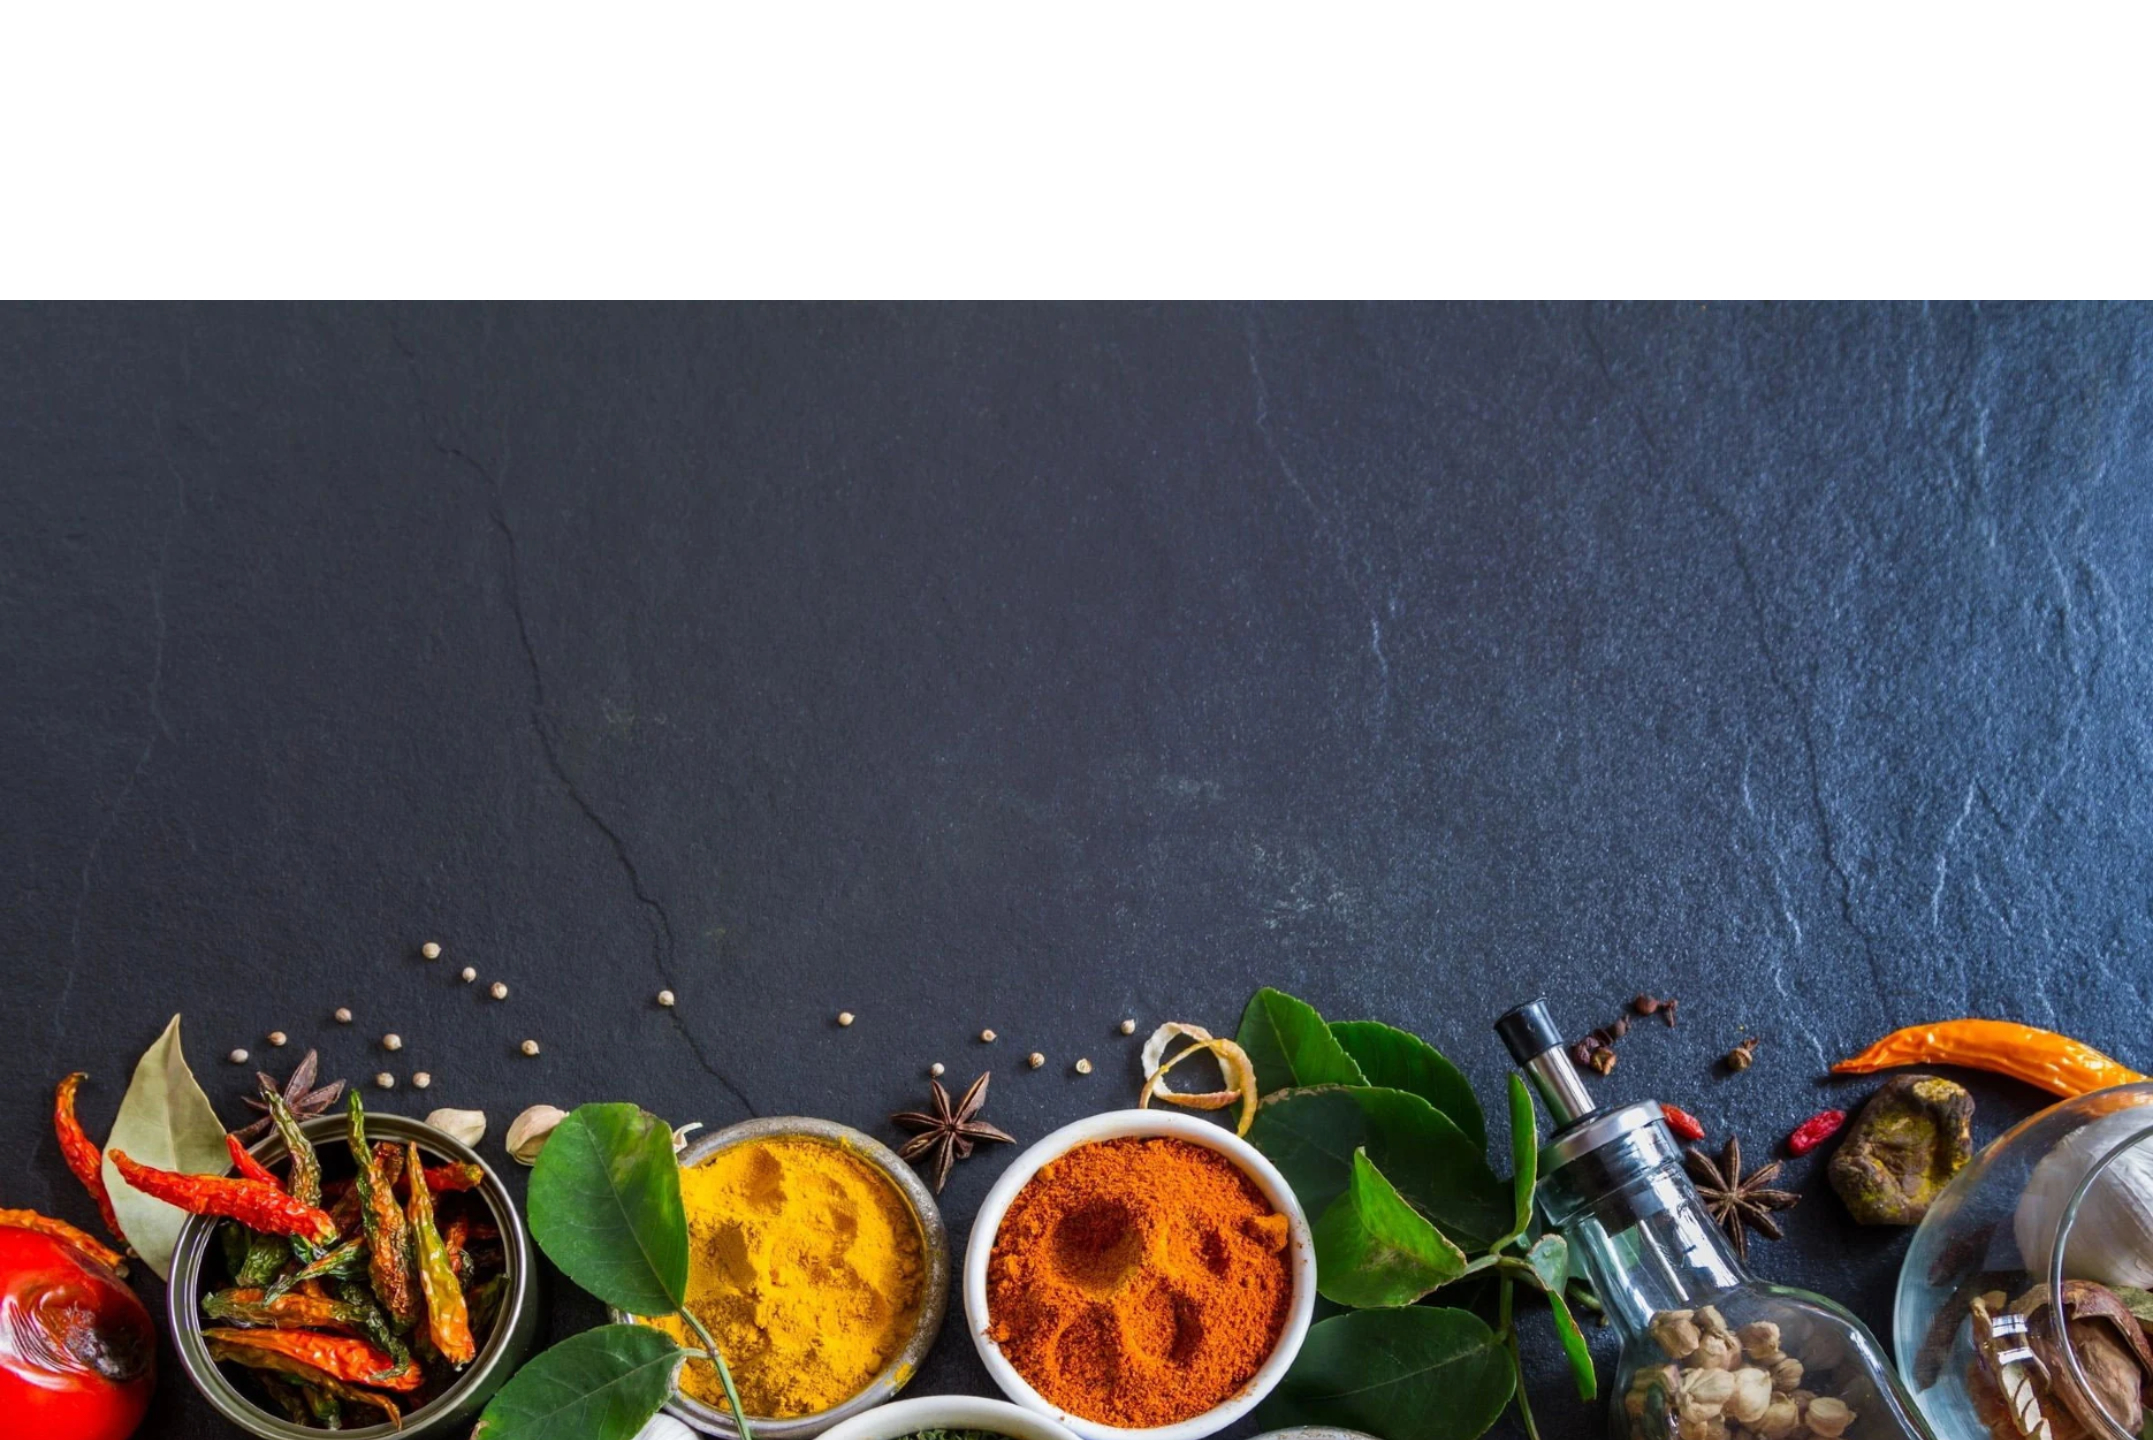
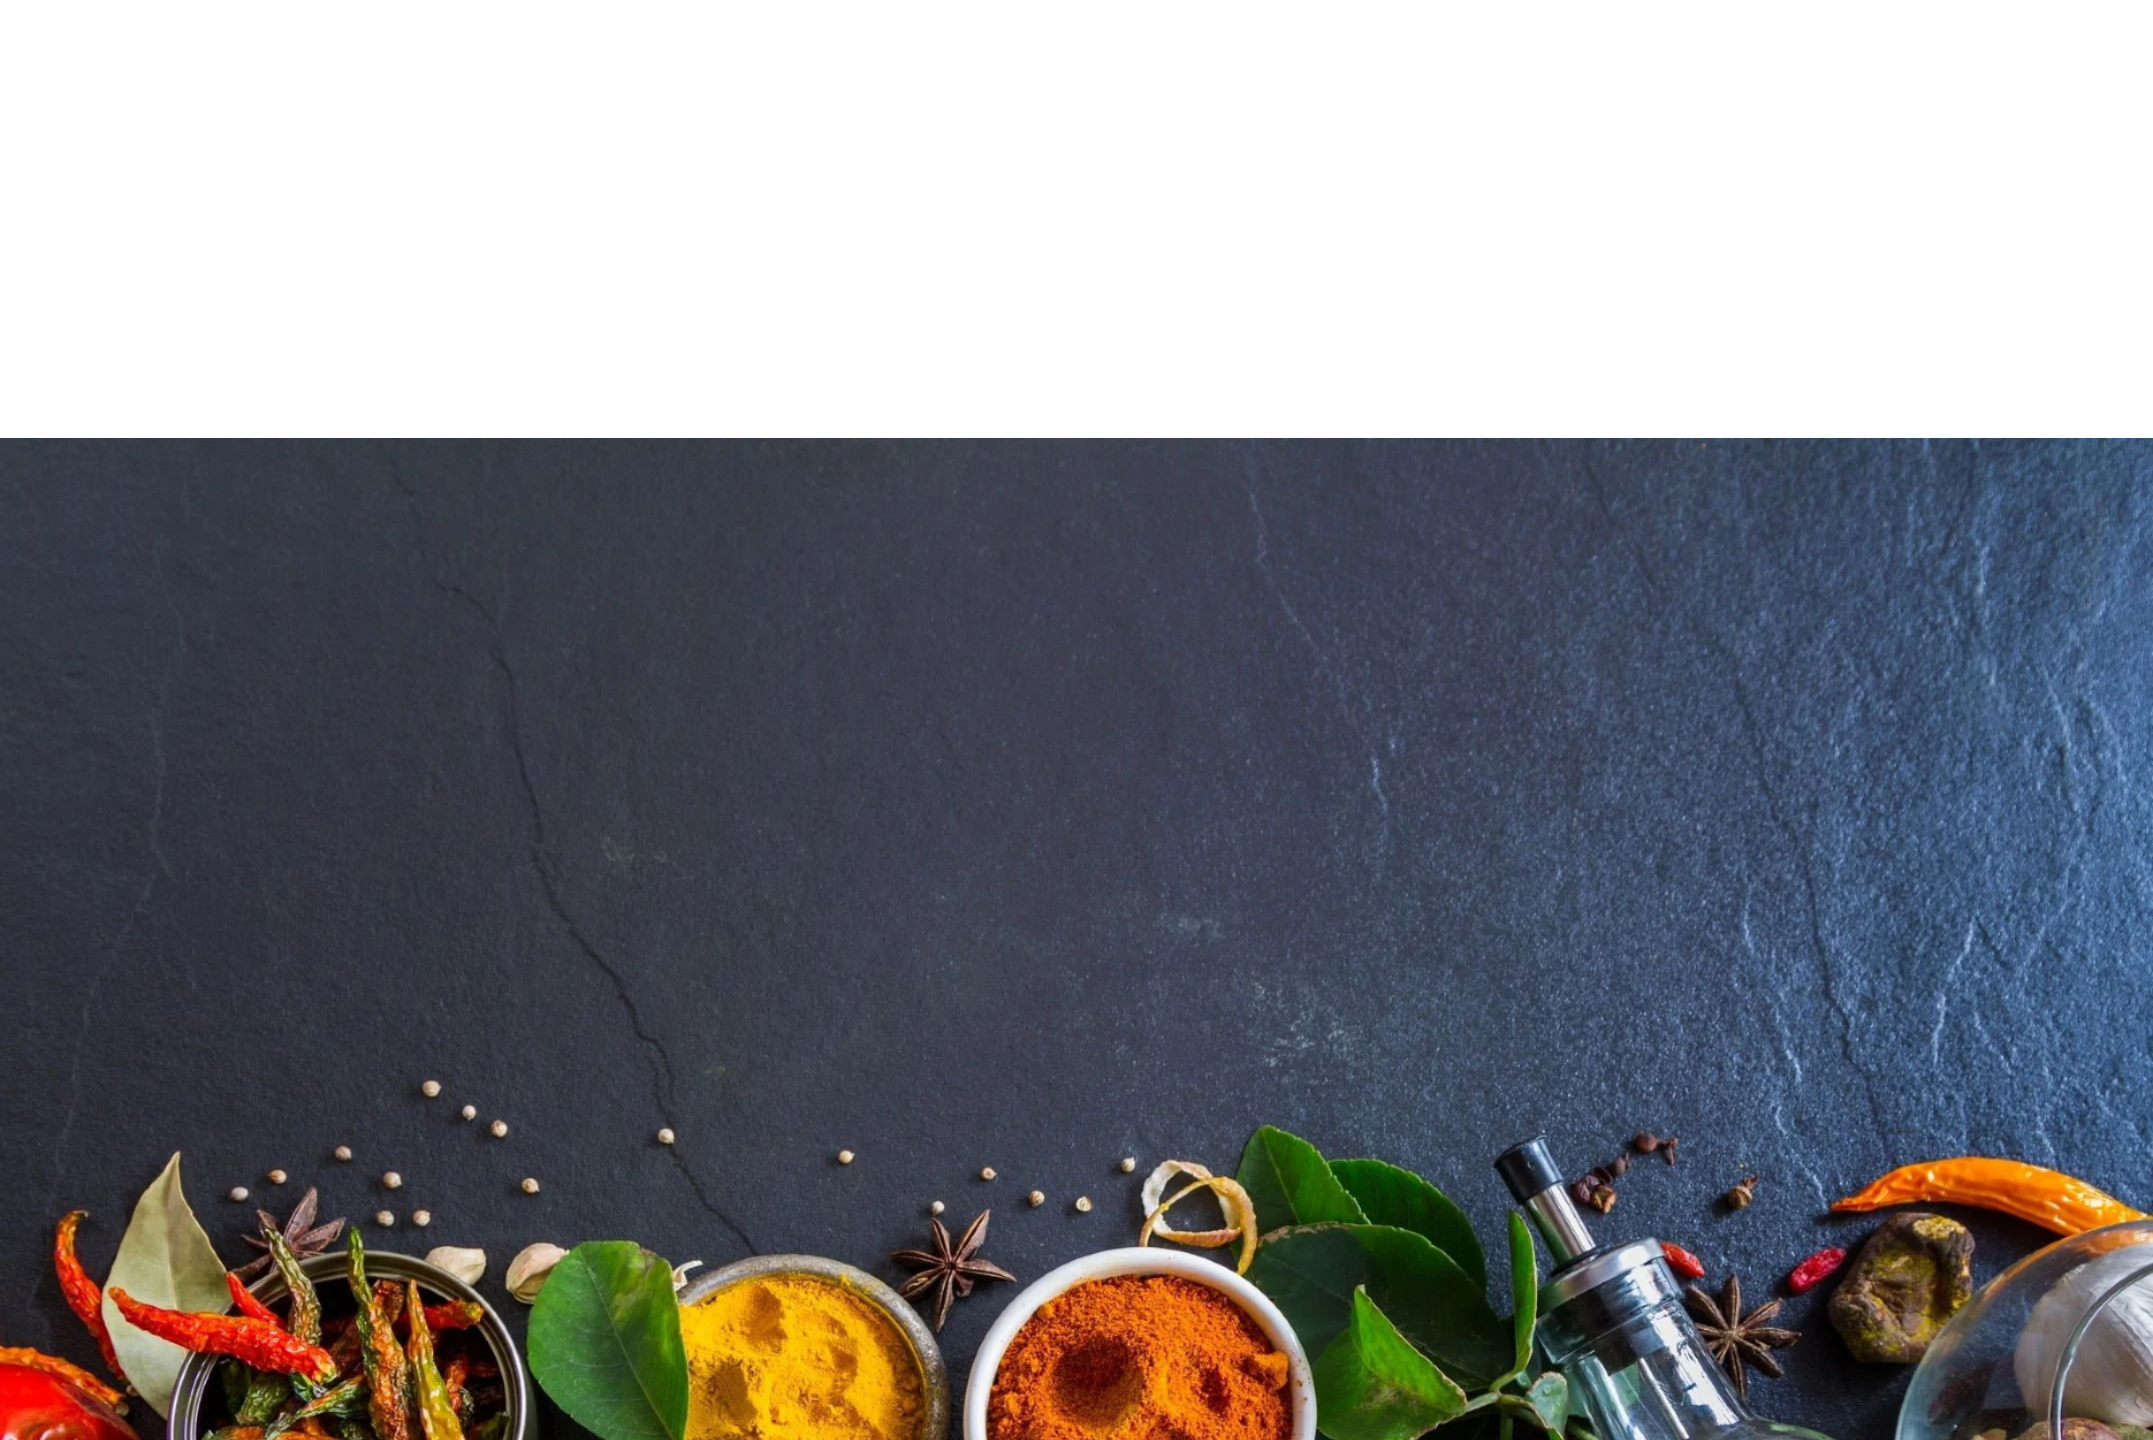
add home component

diff --git a/src/app/app.component.html b/src/app/app.component.html
@@ -1,6 +1,6 @@
 <nav>
   <div
-    class="navbar md:container md:mx-auto flex justify-between text-yellow-pantone text-xl font-medium"
+    class="navbar md:container md:mx-auto flex justify-between text-yellow-pantone text-xl"
   >
     <div class="flex m-5 items-center">
       <img
@@ -10,8 +10,10 @@
         height="40px"
         class="rounded-full"
       />
-      <h4 class="mx-5">Juicy N' Yummy</h4>
-      <div class="flex items-center text-black opacity-50 bg-white h-full rounded-full">
+      <a routerLink="/" class="mx-5">Juicy N' Yummy</a>
+      <div
+        class="flex items-center text-black bg-white/[.5] h-full rounded-full"
+      >
         <label for="search_bar">
           <img
             src="../assets/images/search.svg"
@@ -20,17 +22,18 @@
             class="mx-3"
         /></label>
         <input
-          class="outline-none w-80 bg-transparent"
+          class="outline-none w-80 bg-transparent text-flicker-pink placeholder:text-taupe-gray"
           id="search_bar"
           type="text"
+          placeholder="www.juicynyummy.com"
         />
       </div>
     </div>
     <div class="flex m-5 items-center">
-      <h4 class="mx-6">Add Restaurant</h4>
-      <h4 class="mx-6">Log in</h4>
-      <h4 class="mx-6">Sign up</h4>
+      <a routerLink="/" class="mx-6">Add Restaurant</a>
+      <a routerLink="/" class="mx-6">Log in</a>
+      <a routerLink="/" class="mx-6">Sign up</a>
     </div>
   </div>
 </nav>
-
+<app-home></app-home>

diff --git a/tailwind.config.js b/tailwind.config.js
@@ -5,15 +5,15 @@ module.exports = {
     colors: {
       transparent: "transparent",
       current: "currentColor",
-      white: "#ffffff",
-      purple: "#3f3cbb",
-      midnight: "#121063",
-      metal: "#565584",
-      tahiti: "#3ab7bf",
-      silver: "#ecebff",
+      "white": "#ffffff",
+      "purple": "#3f3cbb",
+      "midnight": "#121063",
+      "metal": "#565584",
+      "tahiti": "#3ab7bf",
+      "silver": "#ecebff",
       "bubble-gum": "#ff77e9",
-      bermuda: "#78dcca",
-      black: "#000000",
+      "bermuda": "#78dcca",
+      "black": "#000000",
       "flicker-pink": "#F72585",
       "yellow-pantone": "#F8DD12",
       "green-yellow-crayola": "#FAF199",

diff --git a/src/app/user/home/home.component.spec.ts b/src/app/user/home/home.component.spec.ts
@@ -1,0 +1,25 @@
+import { ComponentFixture, TestBed } from '@angular/core/testing';
+
+import { HomeComponent } from './home.component';
+
+describe('HomeComponent', () => {
+  let component: HomeComponent;
+  let fixture: ComponentFixture<HomeComponent>;
+
+  beforeEach(async () => {
+    await TestBed.configureTestingModule({
+      declarations: [ HomeComponent ]
+    })
+    .compileComponents();
+  });
+
+  beforeEach(() => {
+    fixture = TestBed.createComponent(HomeComponent);
+    component = fixture.componentInstance;
+    fixture.detectChanges();
+  });
+
+  it('should create', () => {
+    expect(component).toBeTruthy();
+  });
+});

diff --git a/src/app/app.module.ts b/src/app/app.module.ts
@@ -3,9 +3,10 @@ import { BrowserModule } from '@angular/platform-browser';
 
 import { AppRoutingModule } from './app-routing.module';
 import { AppComponent } from './app.component';
+import { HomeComponent } from './user/home/home.component';
 
 @NgModule({
-  declarations: [AppComponent],
+  declarations: [AppComponent, HomeComponent],
   imports: [BrowserModule, AppRoutingModule],
   providers: [],
   bootstrap: [AppComponent],

diff --git a/src/app/user/home/home.component.html b/src/app/user/home/home.component.html
@@ -1,0 +1,12 @@
+<div class="bg">
+  <div
+    class="md:container md:mx-auto h-full flex justify-center text-4xl items-center font-medium"
+  >
+    <p class="text-yellow-pantone">One thousands flavours in one place</p>
+    <button
+      class="bg-flicker-pink text-lg px-3 py-1 mx-5 rounded-md text-2xl font-medium"
+    >
+      Order now &#8594;
+    </button>
+  </div>
+</div>

diff --git a/src/app/user/home/home.component.ts b/src/app/user/home/home.component.ts
@@ -1,0 +1,15 @@
+import { Component, OnInit } from '@angular/core';
+
+@Component({
+  selector: 'app-home',
+  templateUrl: './home.component.html',
+  styleUrls: ['./home.component.css']
+})
+export class HomeComponent implements OnInit {
+
+  constructor() { }
+
+  ngOnInit(): void {
+  }
+
+}

diff --git a/src/app/user/home/home.component.css b/src/app/user/home/home.component.css
@@ -1,0 +1,7 @@
+.bg {
+  background-image: url(../../../assets/images/bg.jpg);
+  height: 60vh;
+  background-repeat: no-repeat;
+  background-size: cover;
+  background-position: bottom;
+}

diff --git a/src/styles.css b/src/styles.css
@@ -2,3 +2,9 @@
 @tailwind base;
 @tailwind components;
 @tailwind utilities;
+
+* {
+  margin: 0;
+  padding: 0;
+  font-family: "Farro", sans-serif;
+}
